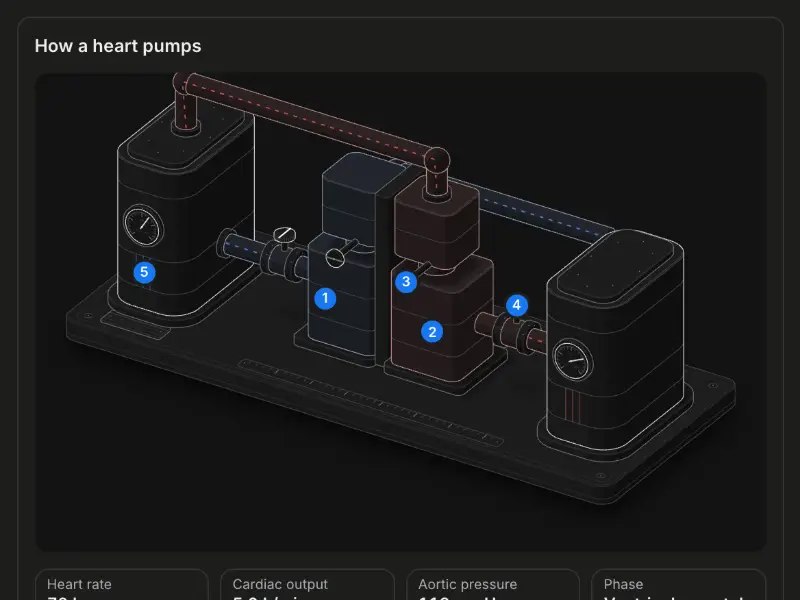
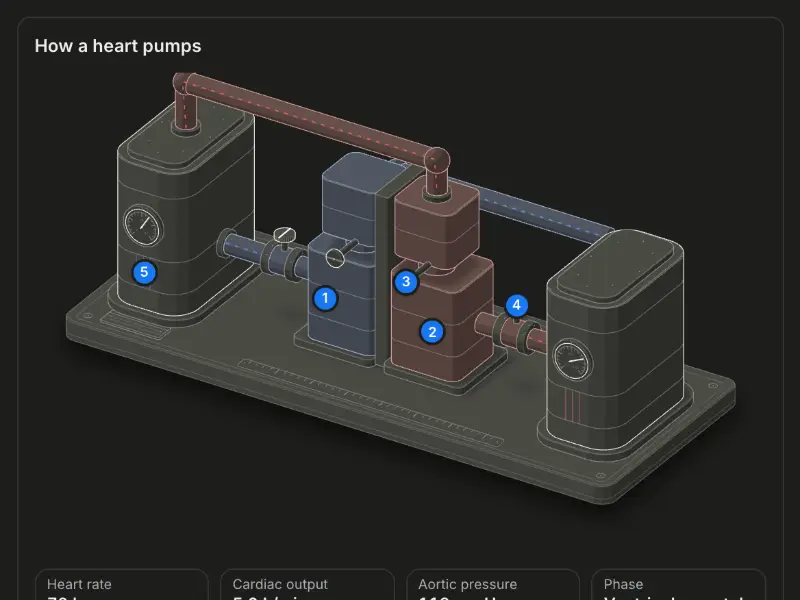
fix(figure): follow Ripple's theme class live and lift the dark ramp

diff --git a/packages/svelte/src/lib/figures/heart/figure.ts b/packages/svelte/src/lib/figures/heart/figure.ts
@@ -12,7 +12,9 @@
 // rebuilt each frame from the model, wheel levers turn with the valves and the
 // flow dashes move with the flow. Look: Anatomy's neutral four-tone ramp
 // (ISO_CSS, same tokens as its kit/iso.css), thin low-opacity edges, colour
-// only as faint tints (blue oxygen-poor, red oxygen-rich). No DOM at module top level.
+// only as faint tints (blue oxygen-poor, red oxygen-rich). The dark ramp is lifted
+// (panel #1d1d1a, tops #4a4a44, sides #3a3a35..#2c2c28, light lines at .3-.4) so
+// the machine reads as clearly as in light. No DOM at module top level.
 
 import * as k from '@ripple-ui/core/iso';
 import type { Flat, Point3, SolidPaths } from '@ripple-ui/core/iso';
@@ -421,17 +423,26 @@ export const ANCHORS: Anchor[] = ANCHOR_POINTS.map(([id, label, p]) => {
 });
 
 export const HEART_CSS = `
-.heart-blue>.iso-edge,.heart-red>.iso-edge{stroke-opacity:.75}
-.heart-blue>.iso-edge{stroke:color-mix(in srgb,var(--anatomy-blue) 35%,var(--anatomy-hi))}
-.heart-red>.iso-edge{stroke:color-mix(in srgb,var(--anatomy-red) 35%,var(--anatomy-hi))}
-.heart-blue>.iso-top{fill:color-mix(in srgb,var(--anatomy-blue) 7%,var(--anatomy-top))}
-.heart-red>.iso-top{fill:color-mix(in srgb,var(--anatomy-red) 7%,var(--anatomy-top))}
-.heart-blue>.iso-shade[data-shade="2"],.heart-blue>.iso-shade[data-shade="3"]{fill:color-mix(in srgb,var(--anatomy-blue) 6%,var(--anatomy-shade-2))}
-.heart-red>.iso-shade[data-shade="2"],.heart-red>.iso-shade[data-shade="3"]{fill:color-mix(in srgb,var(--anatomy-red) 6%,var(--anatomy-shade-2))}
-.heart-blue>.iso-shade[data-shade="0"],.heart-blue>.iso-shade[data-shade="1"]{fill:color-mix(in srgb,var(--anatomy-blue) 5%,var(--anatomy-shade-0))}
-.heart-red>.iso-shade[data-shade="0"],.heart-red>.iso-shade[data-shade="1"]{fill:color-mix(in srgb,var(--anatomy-red) 5%,var(--anatomy-shade-0))}
-.heart-flow{stroke-dasharray:2 5;stroke-width:1;stroke-opacity:.7}
-.heart-rib{stroke-opacity:.45}
+.iso[data-figure-host]{--heart-tint:7%}
+.iso[data-theme="dark"][data-figure-host]{
+  --anatomy-page:#161614;--anatomy-card:#1d1d1a;--anatomy-paper:#1d1d1a;--anatomy-face:#3a3a35;--anatomy-top:#4a4a44;
+  --anatomy-shade-0:#2c2c28;--anatomy-shade-1:#33332e;--anatomy-shade-2:#3a3a35;--anatomy-shade-3:#42423c;
+  --anatomy-lit-top:#56564f;--anatomy-lit-shade:#46463f;
+  --anatomy-hi:#ecece6;--anatomy-mid:#e8e8e266;--anatomy-lo:#e8e8e24d;--anatomy-faint:#e8e8e229;--anatomy-lit:#ffffff;
+  --anatomy-halo:#000000;--anatomy-halo-opacity:.55;--anatomy-dot:#ecece6;
+  --heart-tint:16%
+}
+.heart-blue>.iso-edge,.heart-red>.iso-edge{stroke-opacity:.8}
+.heart-blue>.iso-edge{stroke:color-mix(in srgb,var(--anatomy-blue) 40%,var(--anatomy-hi))}
+.heart-red>.iso-edge{stroke:color-mix(in srgb,var(--anatomy-red) 40%,var(--anatomy-hi))}
+.heart-blue>.iso-top{fill:color-mix(in srgb,var(--anatomy-blue) var(--heart-tint),var(--anatomy-top))}
+.heart-red>.iso-top{fill:color-mix(in srgb,var(--anatomy-red) var(--heart-tint),var(--anatomy-top))}
+.heart-blue>.iso-shade[data-shade="2"],.heart-blue>.iso-shade[data-shade="3"]{fill:color-mix(in srgb,var(--anatomy-blue) calc(var(--heart-tint) * .85),var(--anatomy-shade-2))}
+.heart-red>.iso-shade[data-shade="2"],.heart-red>.iso-shade[data-shade="3"]{fill:color-mix(in srgb,var(--anatomy-red) calc(var(--heart-tint) * .85),var(--anatomy-shade-2))}
+.heart-blue>.iso-shade[data-shade="0"],.heart-blue>.iso-shade[data-shade="1"]{fill:color-mix(in srgb,var(--anatomy-blue) calc(var(--heart-tint) * .7),var(--anatomy-shade-0))}
+.heart-red>.iso-shade[data-shade="0"],.heart-red>.iso-shade[data-shade="1"]{fill:color-mix(in srgb,var(--anatomy-red) calc(var(--heart-tint) * .7),var(--anatomy-shade-0))}
+.heart-flow{stroke-dasharray:2 5;stroke-width:1;stroke-opacity:.75}
+.heart-rib{stroke-opacity:.5}
 .iso-halo.heart-shadow{filter:blur(2.5px);opacity:calc(var(--anatomy-halo-opacity) * .5);transform:none}
 .iso-halo.heart-shadow[data-far]{filter:blur(4px);opacity:calc(var(--anatomy-halo-opacity) * .22)}
 `;
@@ -500,6 +511,7 @@ export function mount(el: HTMLElement, { theme = 'dark', params: initial, onRead
 	const parsed = new DOMParser().parseFromString(heartSvg(params), 'image/svg+xml').documentElement;
 	const svg = doc.importNode(parsed, true) as unknown as SVGSVGElement;
 	el.classList.add('iso');
+	el.dataset.figureHost = 'heart';
 	el.dataset.theme = theme;
 	el.replaceChildren(svg);
 

diff --git a/packages/svelte/src/lib/widgets/composite/Figure.svelte b/packages/svelte/src/lib/widgets/composite/Figure.svelte
@@ -19,6 +19,8 @@
     slider sits under its label and value.
   - The stage keeps the `iso` class in its own class list (mount adds it
     too), so a class re-render never drops the figure CSS scope.
+  - Light or dark follows Ripple's theme (a `.dark` class or data-theme on an
+    ancestor, as the site's toggle sets it), live, never prefers-color-scheme.
   - The stage element carries the mounted handle as `rippleFigure` (seek for
     captures and tests).
 -->
@@ -81,11 +83,10 @@
 	});
 	const activeNote = $derived(notes.find((n) => n.key === active));
 
-	function themeOf(): FigureTheme {
-		const html = document.documentElement;
-		if (html.classList.contains('dark') || html.dataset.theme === 'dark') return 'dark';
-		if (html.classList.contains('light') || html.dataset.theme === 'light') return 'light';
-		return window.matchMedia?.('(prefers-color-scheme: dark)').matches ? 'dark' : 'light';
+	/** Ripple's theme, the way the site and other widgets read it: a `.dark` class (or data-theme) on an ancestor, else light. */
+	function themeOf(host: HTMLElement): FigureTheme {
+		const marked = host.parentElement?.closest<HTMLElement>('.dark, .light, [data-theme="dark"], [data-theme="light"]');
+		return marked && (marked.classList.contains('dark') || marked.dataset.theme === 'dark') ? 'dark' : 'light';
 	}
 
 	$effect(() => {
@@ -97,21 +98,19 @@
 			if (cancelled) return;
 			meta = mod.meta;
 			handle = mod.mount(host, {
-				theme: themeOf(),
+				theme: themeOf(host),
 				params: untrack(() => values),
 				onReadout: (r) => (readouts = r)
 			});
 			(host as HTMLDivElement & { rippleFigure?: FigureHandle }).rippleFigure = handle;
 		});
-		const flip = () => handle?.setTheme(themeOf());
+		// A theme toggle flips a class on <html> (or an ancestor): follow it live.
+		const flip = () => handle?.setTheme(themeOf(host));
 		const mo = new MutationObserver(flip);
-		mo.observe(document.documentElement, { attributes: true, attributeFilter: ['class', 'data-theme'] });
-		const mq = window.matchMedia?.('(prefers-color-scheme: dark)');
-		mq?.addEventListener?.('change', flip);
+		for (let n: HTMLElement | null = host.parentElement; n; n = n.parentElement) mo.observe(n, { attributes: true, attributeFilter: ['class', 'data-theme'] });
 		return () => {
 			cancelled = true;
 			mo.disconnect();
-			mq?.removeEventListener?.('change', flip);
 			handle?.destroy();
 			handle = null;
 		};

diff --git a/packages/svelte/src/lib/widgets/composite/Figure.test.ts b/packages/svelte/src/lib/widgets/composite/Figure.test.ts
@@ -41,6 +41,22 @@ describe('figure', () => {
 		expect(container.querySelector('svg.iso-svg')).not.toBeNull();
 	});
 
+	it("follows Ripple's theme class on the root, live", async () => {
+		document.documentElement.classList.add('dark');
+		try {
+			const { container } = render(Figure, { props: { figure: 'heart' } });
+			await loaded(container);
+			const stage = container.querySelector<HTMLElement>('[data-slot="figure-stage"]')!;
+			expect(stage.dataset.theme).toBe('dark');
+			document.documentElement.classList.remove('dark');
+			await vi.waitFor(() => expect(stage.dataset.theme).toBe('light'));
+			document.documentElement.classList.add('dark');
+			await vi.waitFor(() => expect(stage.dataset.theme).toBe('dark'));
+		} finally {
+			document.documentElement.classList.remove('dark');
+		}
+	});
+
 	it('a slider writes the bound value and the readout follows', async () => {
 		const onchange = vi.fn();
 		const { container } = render(Figure, { props: { figure: 'heart', onchange } });
